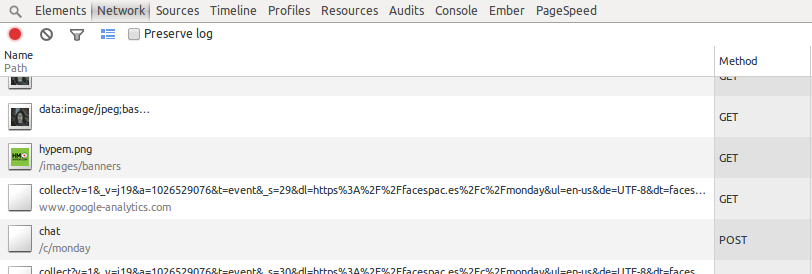
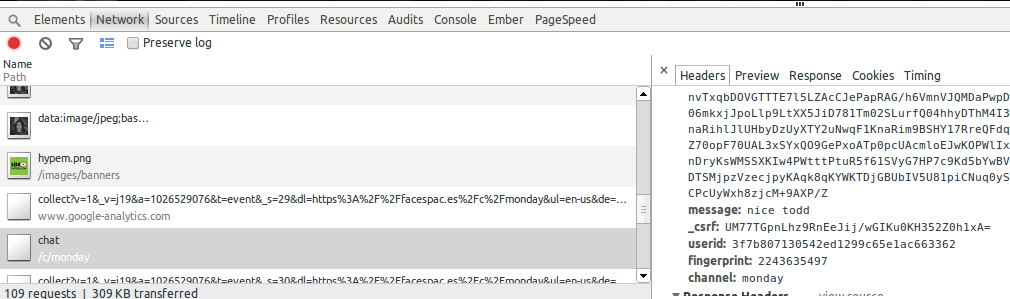
blah.

diff --git a/index.html b/index.html
@@ -20,8 +20,9 @@
       <li>Open up Chrome Developer Tools (Tools -> Developer Tools)</li>
       <li>Open the Network Tab</li>
       <li>Send a message</li>
-      <li>Locate a POST request to '/c/whatever channel' <img src="img/first.png"> </li>
-      <li>Click on the request and scroll down to 'Form Data' which will contain your fingerprint and user ID. <img src='img/second.png'></li>
+      <li>Locate a POST request to '/c/whatever channel'</li>
+      <li>Click on the request and scroll down to 'Form Data' which will contain your fingerprint and user ID.</li>
+      <li><img src='img/second.png'></li>
     </ul>
     <li>Copy your fingerprint and user ID into the respective inputs on the the modal</li>
     <li>Drag and drop a file into the photo div</li>
